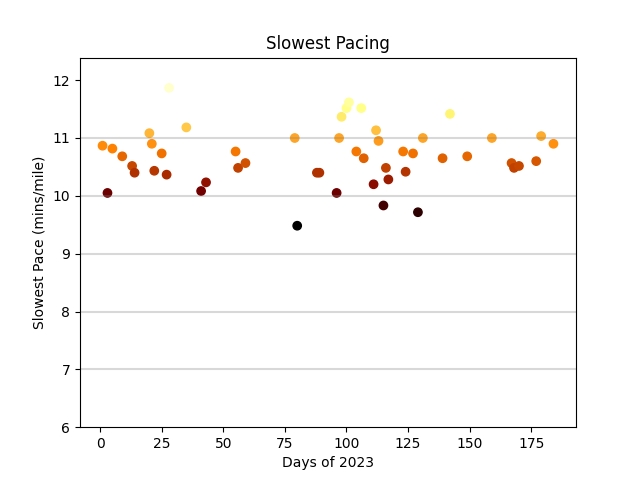
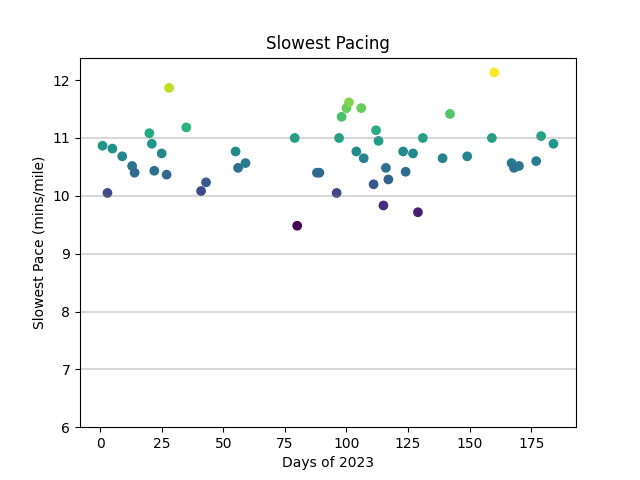
New plot maybe it's kinda ugly

diff --git a/progress.py b/progress.py
@@ -184,10 +184,22 @@ if plot_pacing:
         pacing_lines()
 
         # continuous colors
-        plt.scatter(df['day'], df[label+'_mins'], c=df[label+'_mins'], cmap=my_colormap)
+        plt.scatter(df['day'], df[label+'_mins'], c=df[label+'_mins'])
         plt.ylim(bottom=6.0)
         plt.xlabel('Days of 2023')
         plt.ylabel(label.capitalize()+' Pace (mins/mile)')
         plt.title(label.capitalize()+" Pacing")
         plt.savefig(label+"-pacing")
         plt.close()
+
+    for day in df['day']:
+        d = day - 1
+        # print(f"Day: {day} Miles: {df['miles'][d]}")
+        if df['miles'][d] > 0:
+            nmiles = len(df['times'][d])
+            plt.scatter([day]*nmiles, np.array(df['times'][d])/60.0) # , c=[df['average_mins'][d]]*nmiles)
+    plt.xlabel('Days of 2023')
+    plt.ylabel('Paces (mins/mile)')
+    plt.title("Total Pacing")
+    plt.savefig("total-pacing")
+    plt.close()
